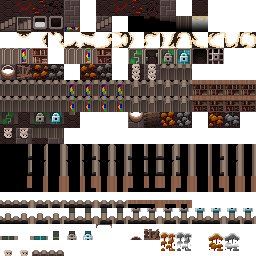
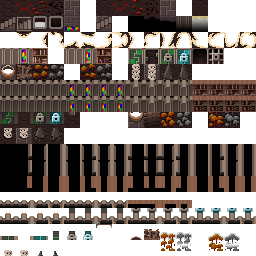
v3.1.0: adjusted new region deco, 2nd version is not always SP floor

Changed region(s): [[0.625, 0.25, 0.75, 0.3125], [0.125, 0.5, 0.25, 0.5625], [0.125, 0.9688, 0.25, 1.0]]

diff --git a/core/src/main/java/com/shatteredpixel/shatteredpixeldungeon/tiles/DungeonTileSheet.java b/core/src/main/java/com/shatteredpixel/shatteredpixeldungeon/tiles/DungeonTileSheet.java
@@ -106,7 +106,6 @@ public class DungeonTileSheet {
 		//special floor
 		chasmStitcheable.put( Terrain.EMPTY_SP,     CHASM_FLOOR_SP );
 		chasmStitcheable.put( Terrain.STATUE_SP,    CHASM_FLOOR_SP );
-		chasmStitcheable.put( Terrain.REGION_DECO_SP,CHASM_FLOOR_SP );
 
 		//wall
 		chasmStitcheable.put( Terrain.WALL,         CHASM_WALL );
@@ -121,6 +120,13 @@ public class DungeonTileSheet {
 	}
 
 	public static int stitchChasmTile(int above){
+		//alt region deco has different visuals per region, but most commonly FLOOR_SP
+		if (above == Terrain.REGION_DECO_ALT){
+			if (Dungeon.depth <= 5)     return CHASM_FLOOR_SP;
+			if (Dungeon.depth <= 10)    return CHASM;
+			if (Dungeon.depth <= 20)    return CHASM_FLOOR_SP;
+			else                        return CHASM_FLOOR;
+		}
 		return chasmStitcheable.get(above, CHASM);
 	}
 
@@ -143,13 +149,22 @@ public class DungeonTileSheet {
 			Terrain.DOOR, Terrain.OPEN_DOOR, Terrain.LOCKED_DOOR, Terrain.CRYSTAL_DOOR
 	));
 
+	public static boolean waterStitcheable(int tile){
+		//alt region deco has different visuals per region, is stitcheable in demon halls
+		if (tile == Terrain.REGION_DECO_ALT){
+			if (Dungeon.depth <= 20)    return false;
+			else                        return true;
+		}
+		return waterStitcheable.contains(tile);
+	}
+
 	//+1 for ground above, +2 for ground right, +4 for ground below, +8 for ground left.
 	public static int stitchWaterTile(int top, int right, int bottom, int left){
 		int result = WATER;
-		if (waterStitcheable.contains(top))     result += 1;
-		if (waterStitcheable.contains(right))   result += 2;
-		if (waterStitcheable.contains(bottom))  result += 4;
-		if (waterStitcheable.contains(left))    result += 8;
+		if (waterStitcheable(top))      result += 1;
+		if (waterStitcheable(right))    result += 2;
+		if (waterStitcheable(bottom))   result += 4;
+		if (waterStitcheable(left))     result += 8;
 		return result;
 	}
 
@@ -190,7 +205,7 @@ public class DungeonTileSheet {
 	public static final int FLAT_STATUE         = FLAT_OTHER+8;
 	public static final int FLAT_STATUE_SP      = FLAT_OTHER+9;
 	public static final int FLAT_REGION_DECO    = FLAT_OTHER+10;
-	public static final int FLAT_REGION_DECO_SP = FLAT_OTHER+11;
+	public static final int FLAT_REGION_DECO_ALT= FLAT_OTHER+11;
 
 	public static final int FLAT_MINE_CRYSTAL         = FLAT_OTHER+12;
 	public static final int FLAT_MINE_CRYSTAL_ALT     = FLAT_OTHER+13;
@@ -289,7 +304,7 @@ public class DungeonTileSheet {
 	public static final int RAISED_STATUE           = RAISED_OTHER+8;
 	public static final int RAISED_STATUE_SP        = RAISED_OTHER+9;
 	public static final int RAISED_REGION_DECO      = RAISED_OTHER+10;
-	public static final int RAISED_REGION_DECO_SP   = RAISED_OTHER+11;
+	public static final int RAISED_REGION_DECO_ALT  = RAISED_OTHER+11;
 
 	public static final int RAISED_MINE_CRYSTAL     = RAISED_OTHER+12;
 	public static final int RAISED_MINE_CRYSTAL_ALT = RAISED_OTHER+13;
@@ -374,7 +389,7 @@ public class DungeonTileSheet {
 	public static final int STATUE_OVERHANG             = OTHER_OVERHANG+8;
 	public static final int STATUE_SP_OVERHANG          = OTHER_OVERHANG+9;
 	public static final int REGION_DECO_OVERHANG        = OTHER_OVERHANG+10;
-	public static final int REGION_DECO_SP_OVERHANG     = OTHER_OVERHANG+11;
+	public static final int REGION_DECO_ALT_OVERHANG    = OTHER_OVERHANG+11;
 
 	public static final int MINE_CRYSTAL_OVERHANG       = OTHER_OVERHANG+12;
 	public static final int MINE_CRYSTAL_OVERHANG_ALT   = OTHER_OVERHANG+13;
@@ -437,7 +452,7 @@ public class DungeonTileSheet {
 		directFlatVisuals.put(Terrain.STATUE,           FLAT_STATUE);
 		directFlatVisuals.put(Terrain.STATUE_SP,        FLAT_STATUE_SP);
 		directFlatVisuals.put(Terrain.REGION_DECO,      FLAT_REGION_DECO);
-		directFlatVisuals.put(Terrain.REGION_DECO_SP,   FLAT_REGION_DECO_SP);
+		directFlatVisuals.put(Terrain.REGION_DECO_ALT,  FLAT_REGION_DECO_ALT);
 
 		directFlatVisuals.put(Terrain.MINE_CRYSTAL,     FLAT_MINE_CRYSTAL);
 		directFlatVisuals.put(Terrain.MINE_BOULDER,     FLAT_MINE_BOULDER);

diff --git a/core/src/main/java/com/shatteredpixel/shatteredpixeldungeon/levels/PrisonLevel.java b/core/src/main/java/com/shatteredpixel/shatteredpixeldungeon/levels/PrisonLevel.java
@@ -27,6 +27,7 @@ import com.shatteredpixel.shatteredpixeldungeon.Statistics;
 import com.shatteredpixel.shatteredpixeldungeon.actors.Char;
 import com.shatteredpixel.shatteredpixeldungeon.actors.mobs.npcs.Wandmaker;
 import com.shatteredpixel.shatteredpixeldungeon.effects.particles.FlameParticle;
+import com.shatteredpixel.shatteredpixeldungeon.effects.particles.WindParticle;
 import com.shatteredpixel.shatteredpixeldungeon.levels.painters.Painter;
 import com.shatteredpixel.shatteredpixeldungeon.levels.painters.PrisonPainter;
 import com.shatteredpixel.shatteredpixeldungeon.levels.rooms.Room;
@@ -178,8 +179,9 @@ public class PrisonLevel extends RegularLevel {
 			case Terrain.WATER:
 				return Messages.get(PrisonLevel.class, "water_name");
 			case Terrain.REGION_DECO:
-			case Terrain.REGION_DECO_SP:
 				return Messages.get(PrisonLevel.class, "region_deco_name");
+			case Terrain.REGION_DECO_ALT:
+				return Messages.get(PrisonLevel.class, "region_deco_alt_name");
 			default:
 				return super.tileName( tile );
 		}
@@ -193,8 +195,9 @@ public class PrisonLevel extends RegularLevel {
 			case Terrain.BOOKSHELF:
 				return Messages.get(PrisonLevel.class, "bookshelf_desc");
 			case Terrain.REGION_DECO:
-			case Terrain.REGION_DECO_SP:
 				return Messages.get(PrisonLevel.class, "region_deco_desc");
+			case Terrain.REGION_DECO_ALT:
+				return Messages.get(PrisonLevel.class, "region_deco_alt_desc");
 			default:
 				return super.tileDesc( tile );
 		}
@@ -211,6 +214,10 @@ public class PrisonLevel extends RegularLevel {
 		for (int i=0; i < level.length(); i++) {
 			if (level.map[i] == Terrain.WALL_DECO) {
 				group.add( new Torch( i ) );
+			}
+			//alt deco is a chasm visual in the prison
+			if (level.map[i] == Terrain.REGION_DECO_ALT) {
+				group.add( new WindParticle.Wind( i ) );
 			}
 		}
 	}

diff --git a/core/src/main/java/com/shatteredpixel/shatteredpixeldungeon/levels/CityLevel.java b/core/src/main/java/com/shatteredpixel/shatteredpixeldungeon/levels/CityLevel.java
@@ -138,7 +138,7 @@ public class CityLevel extends RegularLevel {
 			case Terrain.HIGH_GRASS:
 				return Messages.get(CityLevel.class, "high_grass_name");
 			case Terrain.REGION_DECO:
-			case Terrain.REGION_DECO_SP:
+			case Terrain.REGION_DECO_ALT:
 				return Messages.get(CityLevel.class, "region_deco_name");
 			default:
 				return super.tileName( tile );
@@ -164,7 +164,7 @@ public class CityLevel extends RegularLevel {
 			case Terrain.BOOKSHELF:
 				return Messages.get(CityLevel.class, "bookshelf_desc");
 			case Terrain.REGION_DECO:
-			case Terrain.REGION_DECO_SP:
+			case Terrain.REGION_DECO_ALT:
 				return Messages.get(CityLevel.class, "region_deco_desc");
 			default:
 				return super.tileDesc( tile );
@@ -195,7 +195,7 @@ public class CityLevel extends RegularLevel {
 
 	public static void addCityWallVisuals( Level level, Group group ) {
 		for (int i=0; i < level.length(); i++) {
-			if (level.map[i] == Terrain.REGION_DECO || level.map[i] == Terrain.REGION_DECO_SP) {
+			if (level.map[i] == Terrain.REGION_DECO || level.map[i] == Terrain.REGION_DECO_ALT) {
 				group.add( new GreenFlame( i ) );
 			}
 		}

diff --git a/core/src/main/java/com/shatteredpixel/shatteredpixeldungeon/tiles/DungeonWallsTilemap.java b/core/src/main/java/com/shatteredpixel/shatteredpixeldungeon/tiles/DungeonWallsTilemap.java
@@ -94,8 +94,8 @@ public class DungeonWallsTilemap extends DungeonTilemap {
 			return DungeonTileSheet.STATUE_SP_OVERHANG;
 		} else if (pos + mapWidth < size && map[pos+mapWidth] == Terrain.REGION_DECO){
 			return DungeonTileSheet.REGION_DECO_OVERHANG;
-		} else if (pos + mapWidth < size && map[pos+mapWidth] == Terrain.REGION_DECO_SP){
-			return DungeonTileSheet.REGION_DECO_SP_OVERHANG;
+		} else if (pos + mapWidth < size && map[pos+mapWidth] == Terrain.REGION_DECO_ALT){
+			return DungeonTileSheet.REGION_DECO_ALT_OVERHANG;
 		} else if (pos + mapWidth < size && map[pos+mapWidth] == Terrain.MINE_CRYSTAL){
 			return DungeonTileSheet.getVisualWithAlts(DungeonTileSheet.MINE_CRYSTAL_OVERHANG, pos + mapWidth);
 		} else if (pos + mapWidth < size && map[pos+mapWidth] == Terrain.MINE_BOULDER){

diff --git a/core/src/main/java/com/shatteredpixel/shatteredpixeldungeon/levels/LastShopLevel.java b/core/src/main/java/com/shatteredpixel/shatteredpixeldungeon/levels/LastShopLevel.java
@@ -159,7 +159,7 @@ public class LastShopLevel extends RegularLevel {
 			case Terrain.HIGH_GRASS:
 				return Messages.get(CityLevel.class, "high_grass_name");
 			case Terrain.REGION_DECO:
-			case Terrain.REGION_DECO_SP:
+			case Terrain.REGION_DECO_ALT:
 				return Messages.get(CityLevel.class, "region_deco_name");
 			default:
 				return super.tileName( tile );
@@ -185,7 +185,7 @@ public class LastShopLevel extends RegularLevel {
 			case Terrain.BOOKSHELF:
 				return Messages.get(CityLevel.class, "bookshelf_desc");
 			case Terrain.REGION_DECO:
-			case Terrain.REGION_DECO_SP:
+			case Terrain.REGION_DECO_ALT:
 				return Messages.get(CityLevel.class, "region_deco_desc");
 			default:
 				return super.tileDesc( tile );

diff --git a/core/src/main/java/com/shatteredpixel/shatteredpixeldungeon/levels/HallsLevel.java b/core/src/main/java/com/shatteredpixel/shatteredpixeldungeon/levels/HallsLevel.java
@@ -161,7 +161,7 @@ public class HallsLevel extends RegularLevel {
 			case Terrain.STATUE_SP:
 				return Messages.get(HallsLevel.class, "statue_name");
 			case Terrain.REGION_DECO:
-			case Terrain.REGION_DECO_SP:
+			case Terrain.REGION_DECO_ALT:
 				return Messages.get(HallsLevel.class, "region_deco_name");
 			default:
 				return super.tileName( tile );
@@ -179,7 +179,7 @@ public class HallsLevel extends RegularLevel {
 			case Terrain.BOOKSHELF:
 				return Messages.get(HallsLevel.class, "bookshelf_desc");
 			case Terrain.REGION_DECO:
-			case Terrain.REGION_DECO_SP:
+			case Terrain.REGION_DECO_ALT:
 				return Messages.get(HallsLevel.class, "region_deco_desc");
 			default:
 				return super.tileDesc( tile );

diff --git a/core/src/main/java/com/shatteredpixel/shatteredpixeldungeon/levels/CavesLevel.java b/core/src/main/java/com/shatteredpixel/shatteredpixeldungeon/levels/CavesLevel.java
@@ -200,7 +200,7 @@ public class CavesLevel extends RegularLevel {
 			case Terrain.WATER:
 				return Messages.get(CavesLevel.class, "water_name");
 			case Terrain.REGION_DECO:
-			case Terrain.REGION_DECO_SP:
+			case Terrain.REGION_DECO_ALT:
 				return Messages.get(CavesLevel.class, "region_deco_name");
 			default:
 				return super.tileName( tile );
@@ -222,7 +222,7 @@ public class CavesLevel extends RegularLevel {
 			case Terrain.BOOKSHELF:
 				return Messages.get(CavesLevel.class, "bookshelf_desc");
 			case Terrain.REGION_DECO:
-			case Terrain.REGION_DECO_SP:
+			case Terrain.REGION_DECO_ALT:
 				return Messages.get(CavesLevel.class, "region_deco_desc");
 			default:
 				return super.tileDesc( tile );

diff --git a/core/src/main/java/com/shatteredpixel/shatteredpixeldungeon/levels/PrisonBossLevel.java b/core/src/main/java/com/shatteredpixel/shatteredpixeldungeon/levels/PrisonBossLevel.java
@@ -723,7 +723,7 @@ public class PrisonBossLevel extends Level {
 			case Terrain.WATER:
 				return Messages.get(PrisonLevel.class, "water_name");
 			case Terrain.REGION_DECO:
-			case Terrain.REGION_DECO_SP:
+			case Terrain.REGION_DECO_ALT:
 				return Messages.get(PrisonLevel.class, "region_deco_name");
 			default:
 				return super.tileName( tile );
@@ -738,7 +738,7 @@ public class PrisonBossLevel extends Level {
 			case Terrain.BOOKSHELF:
 				return Messages.get(PrisonLevel.class, "bookshelf_desc");
 			case Terrain.REGION_DECO:
-			case Terrain.REGION_DECO_SP:
+			case Terrain.REGION_DECO_ALT:
 				return Messages.get(PrisonLevel.class, "region_deco_desc");
 			default:
 				return super.tileDesc( tile );

diff --git a/core/src/main/java/com/shatteredpixel/shatteredpixeldungeon/levels/SewerLevel.java b/core/src/main/java/com/shatteredpixel/shatteredpixeldungeon/levels/SewerLevel.java
@@ -196,7 +196,7 @@ public class SewerLevel extends RegularLevel {
 			case Terrain.WATER:
 				return Messages.get(SewerLevel.class, "water_name");
 			case Terrain.REGION_DECO:
-			case Terrain.REGION_DECO_SP:
+			case Terrain.REGION_DECO_ALT:
 				return Messages.get(SewerLevel.class, "region_deco_name");
 			default:
 				return super.tileName( tile );
@@ -211,7 +211,7 @@ public class SewerLevel extends RegularLevel {
 			case Terrain.BOOKSHELF:
 				return Messages.get(SewerLevel.class, "bookshelf_desc");
 			case Terrain.REGION_DECO:
-			case Terrain.REGION_DECO_SP:
+			case Terrain.REGION_DECO_ALT:
 				return Messages.get(SewerLevel.class, "region_deco_desc");
 			default:
 				return super.tileDesc( tile );

diff --git a/core/src/main/java/com/shatteredpixel/shatteredpixeldungeon/levels/HallsBossLevel.java b/core/src/main/java/com/shatteredpixel/shatteredpixeldungeon/levels/HallsBossLevel.java
@@ -368,7 +368,7 @@ public class HallsBossLevel extends Level {
 			case Terrain.STATUE_SP:
 				return Messages.get(HallsLevel.class, "statue_name");
 			case Terrain.REGION_DECO:
-			case Terrain.REGION_DECO_SP:
+			case Terrain.REGION_DECO_ALT:
 				return Messages.get(HallsLevel.class, "region_deco_name");
 			default:
 				return super.tileName( tile );
@@ -386,7 +386,7 @@ public class HallsBossLevel extends Level {
 			case Terrain.BOOKSHELF:
 				return Messages.get(HallsLevel.class, "bookshelf_desc");
 			case Terrain.REGION_DECO:
-			case Terrain.REGION_DECO_SP:
+			case Terrain.REGION_DECO_ALT:
 				return Messages.get(HallsLevel.class, "region_deco_desc");
 			default:
 				return super.tileDesc( tile );

diff --git a/core/src/main/java/com/shatteredpixel/shatteredpixeldungeon/levels/CityBossLevel.java b/core/src/main/java/com/shatteredpixel/shatteredpixeldungeon/levels/CityBossLevel.java
@@ -389,7 +389,7 @@ public class CityBossLevel extends Level {
 			case Terrain.HIGH_GRASS:
 				return Messages.get(CityLevel.class, "high_grass_name");
 			case Terrain.REGION_DECO:
-			case Terrain.REGION_DECO_SP:
+			case Terrain.REGION_DECO_ALT:
 				return Messages.get(CityLevel.class, "region_deco_name");
 			default:
 				return super.tileName( tile );
@@ -415,7 +415,7 @@ public class CityBossLevel extends Level {
 			case Terrain.BOOKSHELF:
 				return Messages.get(CityLevel.class, "bookshelf_desc");
 			case Terrain.REGION_DECO:
-			case Terrain.REGION_DECO_SP:
+			case Terrain.REGION_DECO_ALT:
 				return Messages.get(CityLevel.class, "region_deco_desc");
 			default:
 				return super.tileDesc( tile );

diff --git a/core/src/main/java/com/shatteredpixel/shatteredpixeldungeon/levels/CavesBossLevel.java b/core/src/main/java/com/shatteredpixel/shatteredpixeldungeon/levels/CavesBossLevel.java
@@ -432,7 +432,7 @@ public class CavesBossLevel extends Level {
 				//city statues are used
 				return Messages.get(CityLevel.class, "statue_name");
 			case Terrain.REGION_DECO:
-			case Terrain.REGION_DECO_SP:
+			case Terrain.REGION_DECO_ALT:
 				return Messages.get(CavesLevel.class, "region_deco_name");
 			default:
 				return super.tileName( tile );
@@ -460,7 +460,7 @@ public class CavesBossLevel extends Level {
 			case Terrain.STATUE:
 				return Messages.get(CityLevel.class, "statue_desc");
 			case Terrain.REGION_DECO:
-			case Terrain.REGION_DECO_SP:
+			case Terrain.REGION_DECO_ALT:
 				return Messages.get(CavesLevel.class, "region_deco_desc");
 			default:
 				return super.tileDesc( tile );
